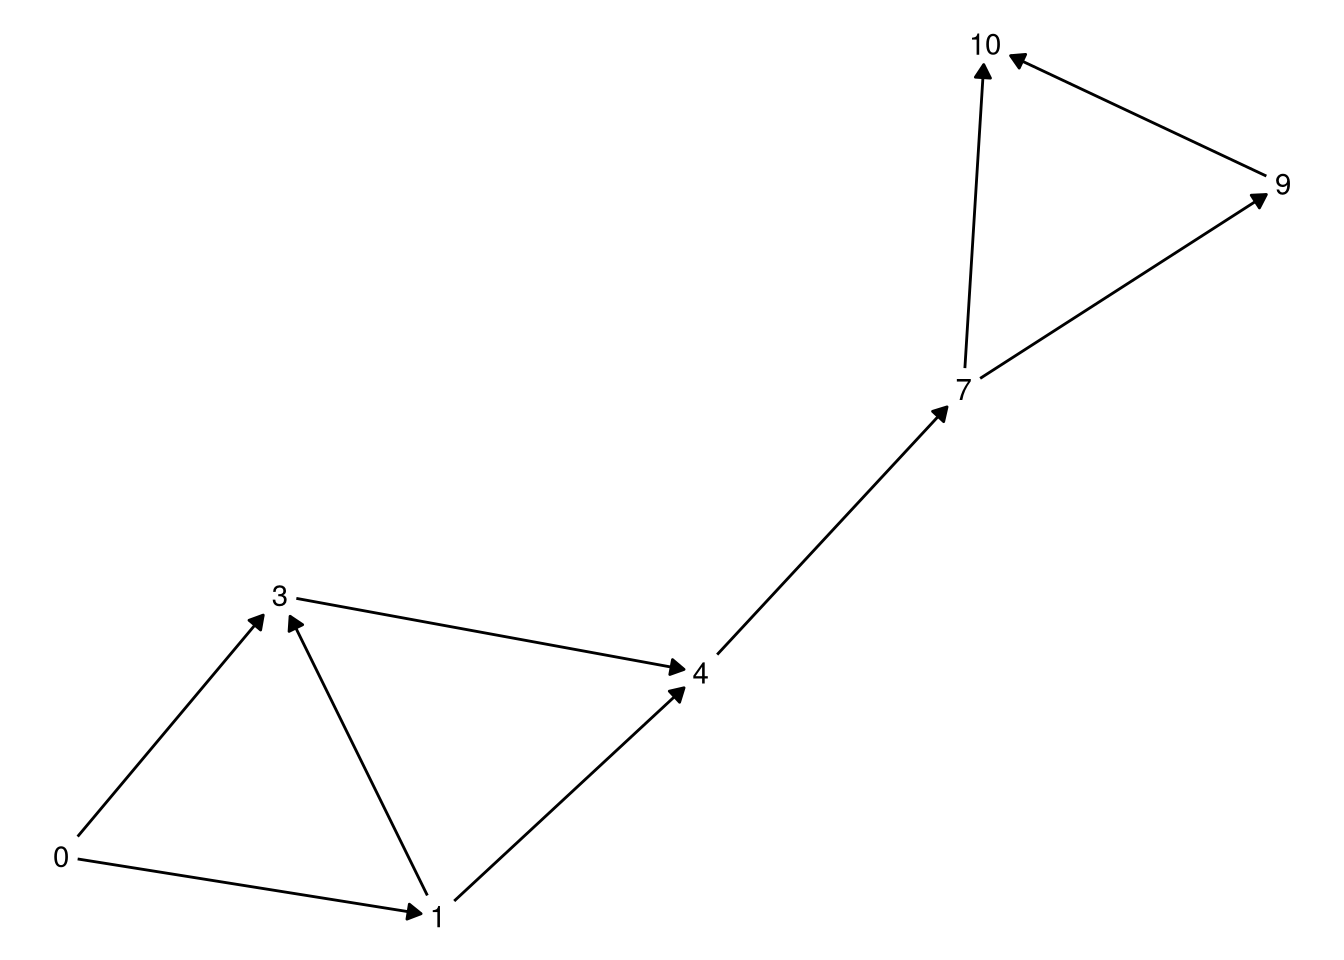
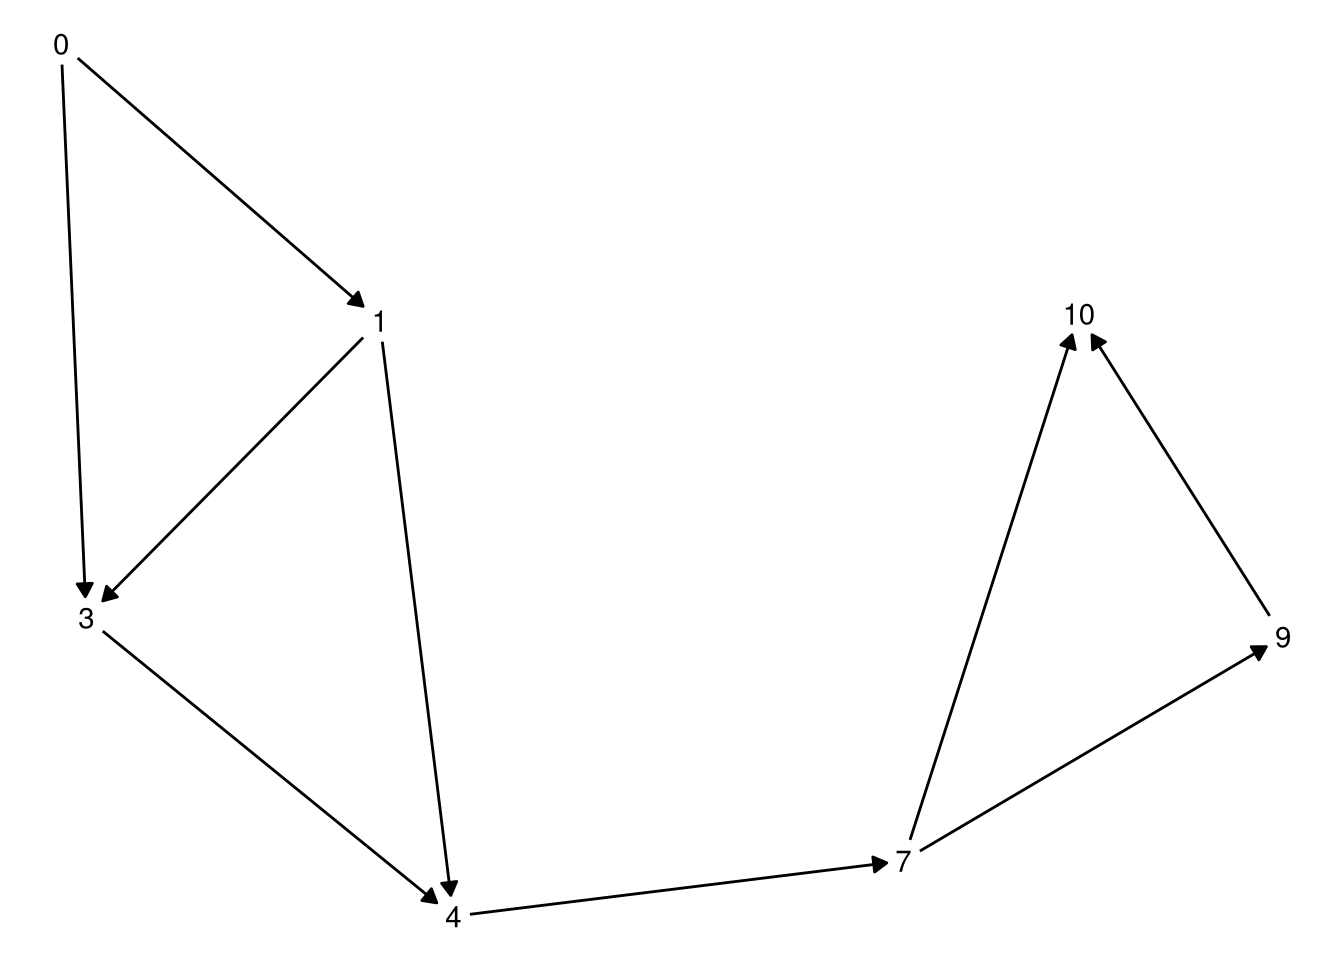
plot your data post

diff --git a/content/post/2020-12-14-advent-of-code-day-10/index.html b/content/post/2020-12-14-advent-of-code-day-10/index.html
@@ -2,7 +2,6 @@
 title: "Plot your data: Advent of Code - Day 10"
 author: Michael
 date: '2021-02-18'
-draft: true
 slug: advent-of-code-day-10
 categories:
   - r
@@ -42,13 +41,60 @@ It was taking a little while so I started doing something else.</p>
 </blockquote>
 <p>There must be an efficient way to count the arrangements—but I wasn’t using it.</p>
 </div>
-<div id="plot-your-data" class="section level2">
-<h2>Plot your data</h2>
-<p>I only made a break-through in my understanding of how to tackle this problem when I plotted the data.</p>
+<div id="the-breakthrough" class="section level2">
+<h2>The Breakthrough</h2>
+<p>I only made a breakthrough in my understanding of how to tackle this problem when I plotted the data.</p>
 <p>The problem readily lends itself to graph-based techniques:
 An adapter rated for 4 jolts can only connect to adapters rated for 4, 5, 6, and 7 jolts.
 It cannot connect to an adapter rated for 8 jolts.
 So if each node on the graph is an adapter, the edges connect adapters that can come in sequence.</p>
+<pre class="r"><code>library(tidyverse)
+library(tidygraph)
+library(ggraph)
+library(igraph)
+library(patchwork)
+
+# The puzzle text said that our device is rated for 3 jolts more than the
+# highest adapter in our bag
+get_device_rating &lt;- function(adapters) {
+  max(adapters) + 3
+}
+
+# This function makes a graph that specifies which adapters can be used
+# with which other adapters
+make_graph &lt;- function(jolts) {
+  get_candidates &lt;- function(current_joltage, adapters) {
+    adapters[(adapters - current_joltage) &lt;= 3 &amp; (adapters - current_joltage) &gt; 0]
+  }
+
+  jolts_df &lt;- tibble(name = jolts)
+
+  jolts_edges &lt;- jolts_df %&gt;%
+    mutate(to = map(name, get_candidates, name)) %&gt;%
+    unnest_longer(to) %&gt;%
+    filter(!is.na(to)) %&gt;%
+    rename(from = name) %&gt;%
+    mutate_all(as.character)
+
+  tbl_graph(nodes = jolts_df %&gt;% mutate_all(as.character), edges = jolts_edges)
+}
+
+# helper function to load the data
+load_jolts &lt;- function(path) {
+  jolts &lt;- sort(as.numeric(readLines(path)))
+  jolts &lt;- c(0, jolts, get_device_rating(jolts))
+}
+
+
+# plotting
+plot_graph &lt;- function(graph) {
+  ggraph(graph, layout = &quot;igraph&quot;, algorithm = &quot;gem&quot;) +
+    geom_edge_link(aes(start_cap = label_rect(node1.name),
+                     end_cap = label_rect(node2.name)),
+                   arrow = arrow(length = unit(0.2, &quot;cm&quot;), type = &quot;closed&quot;)) +
+    geom_node_text(aes(label = name)) +
+    theme_void()
+}</code></pre>
 <pre class="r"><code>little_jolts &lt;- c(0, 1, 3, 4, 7, 9, 10)</code></pre>
 <p>For example, say we had a a bag with adapters with joltages 0, 1, 3, 4, 7, 9, and 10.
 We’d end up drawing a graph like:</p>
@@ -63,11 +109,10 @@ jolt_graph &lt;- make_graph(jolts)
 
 plot_graph(jolt_graph)</code></pre>
 <p><img src="{{< blogdown/postref >}}index_files/figure-html/sample_data_graph-1.png" width="672" /></p>
-<p>Much more complicated, but this provided by breakthrough.</p>
+<p>Much more complicated, but this provided my breakthrough.</p>
 <p>I needed to count all the possible ways of getting from 0 so 52—all the different routes through.
 The key insight here is that the graph isn’t that densely connected.</p>
-<p>In fact, there are notable separate sub-graphs where there’s a lot going on but these are separated by one or more single edges.
-Like stones on a necklace.</p>
+<p>In fact, there are notable separate sub-graphs where there’s a lot going on but these are separated by one or more single edges.</p>
 <p>For example, 0 to 4 has loads of possible routes, but there is only one way to get from 4 to 7.
 No matter how you get from 0 to 4, you will always only have one way to get to 7.</p>
 <p>The smaller islands of activity are independent.</p>
@@ -84,19 +129,28 @@ make_subgraph &lt;- function(max, diff = 3) {
 
   tbl_graph(nodes = nodes, edges = edges)
 }</code></pre>
-<p>If we’re only dealing with 3, 4, or 5, sequential adapters, we get one of the following graphs:
-test</p>
-<pre class="r"><code>map(3:5, make_subgraph) %&gt;%
+<p>If we’re only dealing with 3, 4, or 5, sequential adapters, we get one of the following graphs:</p>
+<pre class="r"><code>g &lt;- map(3:5, make_subgraph) %&gt;%
   map(plot_graph) %&gt;%
-  accumulate(`+`)</code></pre>
-<pre><code>## [[1]]</code></pre>
+  reduce(`+`)
+
+g</code></pre>
 <p><img src="{{< blogdown/postref >}}index_files/figure-html/three_plots-1.png" width="672" /></p>
-<pre><code>## 
-## [[2]]</code></pre>
-<p><img src="{{< blogdown/postref >}}index_files/figure-html/three_plots-2.png" width="672" /></p>
-<pre><code>## 
-## [[3]]</code></pre>
-<p><img src="{{< blogdown/postref >}}index_files/figure-html/three_plots-3.png" width="672" /></p>
+<p>So the really, we just need to enumerate the possible ways of traversing these sub graphs, and then identify each in the big graph.</p>
+<p>This vastly reduces the problem, the solution of the problem isn’t the topic of this post though.</p>
+</div>
+<div id="always-plot-your-data" class="section level2">
+<h2>Always Plot Your Data</h2>
+<p>That’s the topic of this post.</p>
+<p>You have, on your shoulders, the most powerful pattern recognition platform there is.
+There is no substitute to just <em>looking</em> at your data.</p>
+<p>Plotting is the closest we can come to picking up data and looking at it from different angles.
+Until you draw out your data, is it really <em>your</em> data?</p>
+</div>
+<div id="afterword" class="section level2">
+<h2>Afterword</h2>
+<p>Just in case you were interested, here are all the routes through the graph of five nodes:</p>
+<p><img src="{{< blogdown/postref >}}index_files/figure-html/all_routes-1.png" width="672" /></p>
 </div>
 <div class="footnotes">
 <hr />
